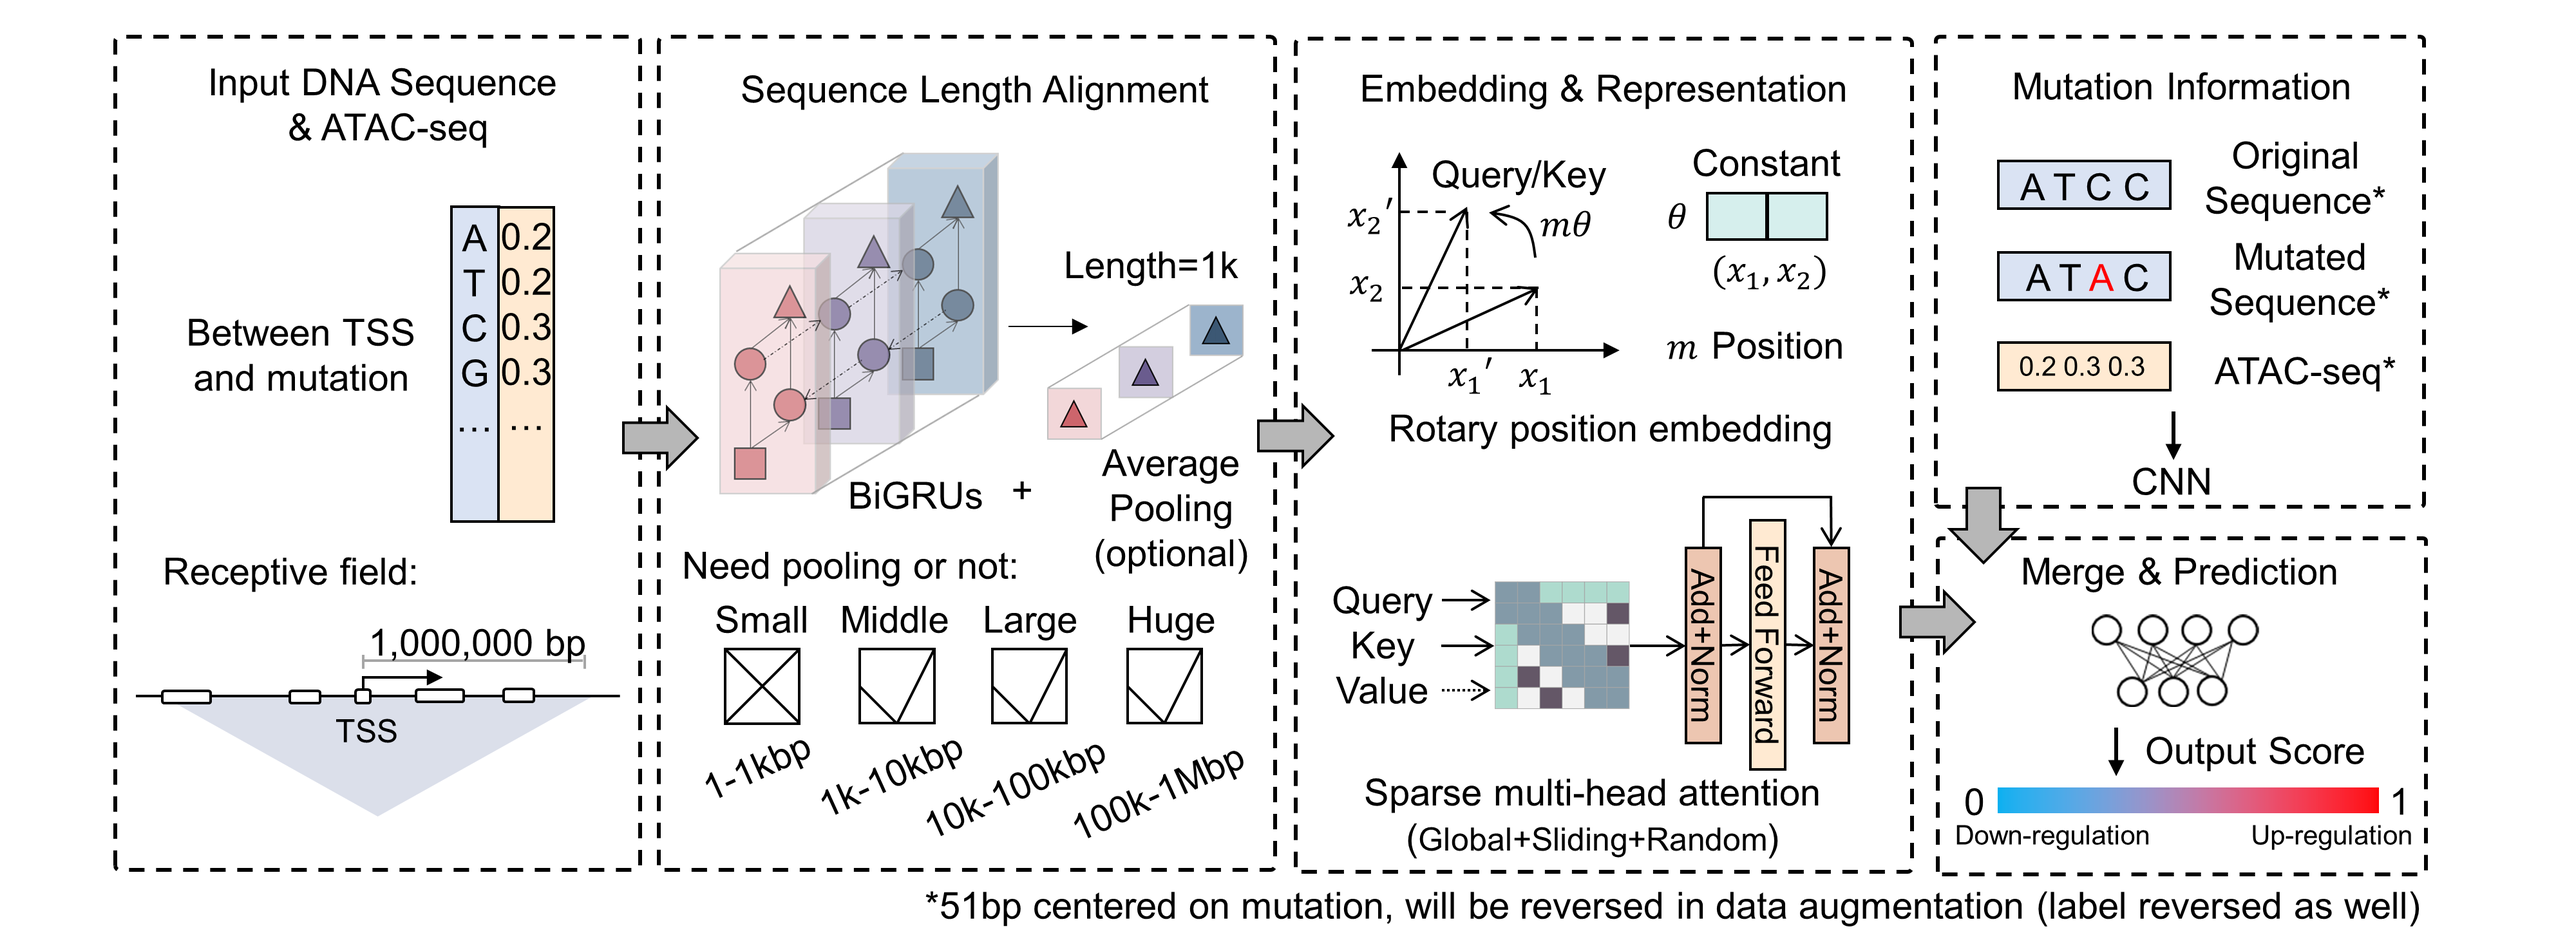
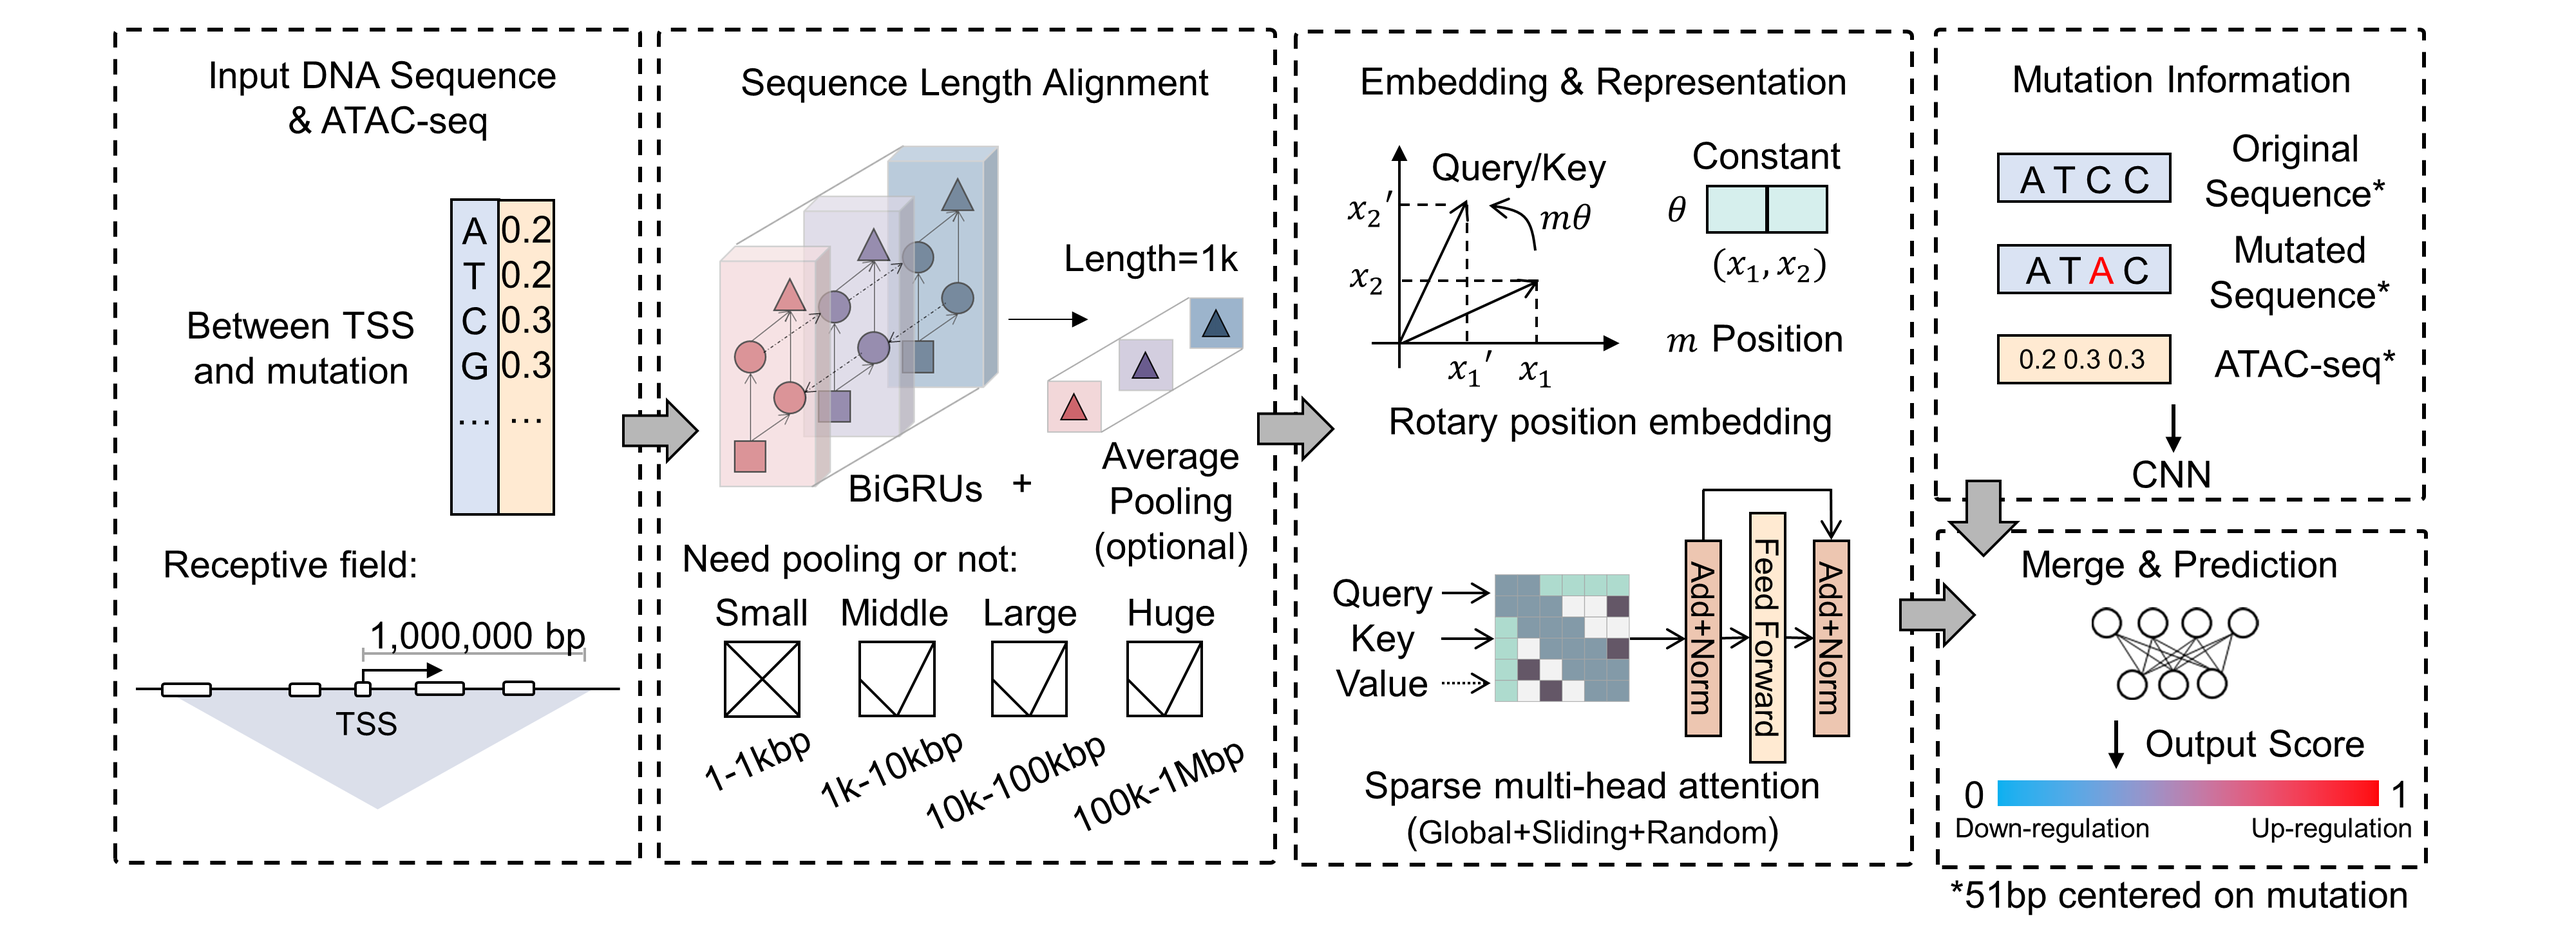
remove augmentation

diff --git a/training.py b/training.py
@@ -29,7 +29,6 @@ if gpus:
 if __name__ == "__main__":
     parser = argparse.ArgumentParser()
     parser.add_argument('-m', '--model_size', default='small')
-    parser.add_argument('-a', '--augmentation', default='False')
     parser.add_argument('--epochs', default=100, type=int)
     parser.add_argument('--lr', default=0.002, type=float,
                         help="Initial learning rate")
@@ -43,10 +42,7 @@ if __name__ == "__main__":
     augmentation = args.augmentation
 
     # load datasets
-    if(augmentation == 'False'):
-        train_pkl = pd.read_pickle('datasets/' + model_size + '/train_' + model_size + '.pkl')
-    elif(augmentation == 'True'):
-        train_pkl = pd.read_pickle('datasets/' + model_size + '/train_aug_' + model_size + '.pkl')
+    train_pkl = pd.read_pickle('datasets/' + model_size + '/train_' + model_size + '.pkl')
     test_pkl = pd.read_pickle('datasets/' + model_size + '/test_' + model_size + '.pkl')
 
     # split train/validation
@@ -56,27 +52,27 @@ if __name__ == "__main__":
 
     # check model size
     if(model_size == 'small'):
-        batch_size = 32
+        batch_size = 16
         model = build_EMO_small()
     elif(model_size == 'middle'):
-        batch_size = 32
+        batch_size = 8
         model = build_EMO_middle()
     elif(model_size == 'large'):
-        batch_size = 32
+        batch_size = 8
         model = build_EMO_large()
     elif(model_size == 'huge'):
-        batch_size = 32
+        batch_size = 4
         model = build_EMO_huge()
 
     model.summary()
     
     # callbacks
     log = tf.keras.callbacks.CSVLogger(args.save_dir + model_size + '/log.csv')
-    tensorboard = tf.keras.callbacks.TensorBoard(log_dir=args.save_dir + model_size + '/tensorboard-logs', histogram_freq=int(args.debug))
+    #tensorboard = tf.keras.callbacks.TensorBoard(log_dir=args.save_dir + model_size + '/tensorboard-logs', histogram_freq=int(args.debug))
     #EarlyStopping = callbacks.EarlyStopping(monitor='val_cc2', min_delta=0.01, patience=5, verbose=0, mode='max', baseline=None, restore_best_weights=True)
     checkpoint = tf.keras.callbacks.ModelCheckpoint(args.save_dir + model_size + '/weights-{epoch:02d}.tf', monitor='val_acc', mode='max', #val_categorical_accuracy val_acc
                                        save_best_only=True, save_weights_only=True, verbose=1)        
-    lr_decay = tf.keras.callbacks.LearningRateScheduler(schedule=lambda epoch: args.lr * (args.lr_decay ** epoch))
+    #lr_decay = tf.keras.callbacks.LearningRateScheduler(schedule=lambda epoch: args.lr * (args.lr_decay ** epoch))
 
     # Train the model and save it
     model.compile(loss='binary_crossentropy', 
